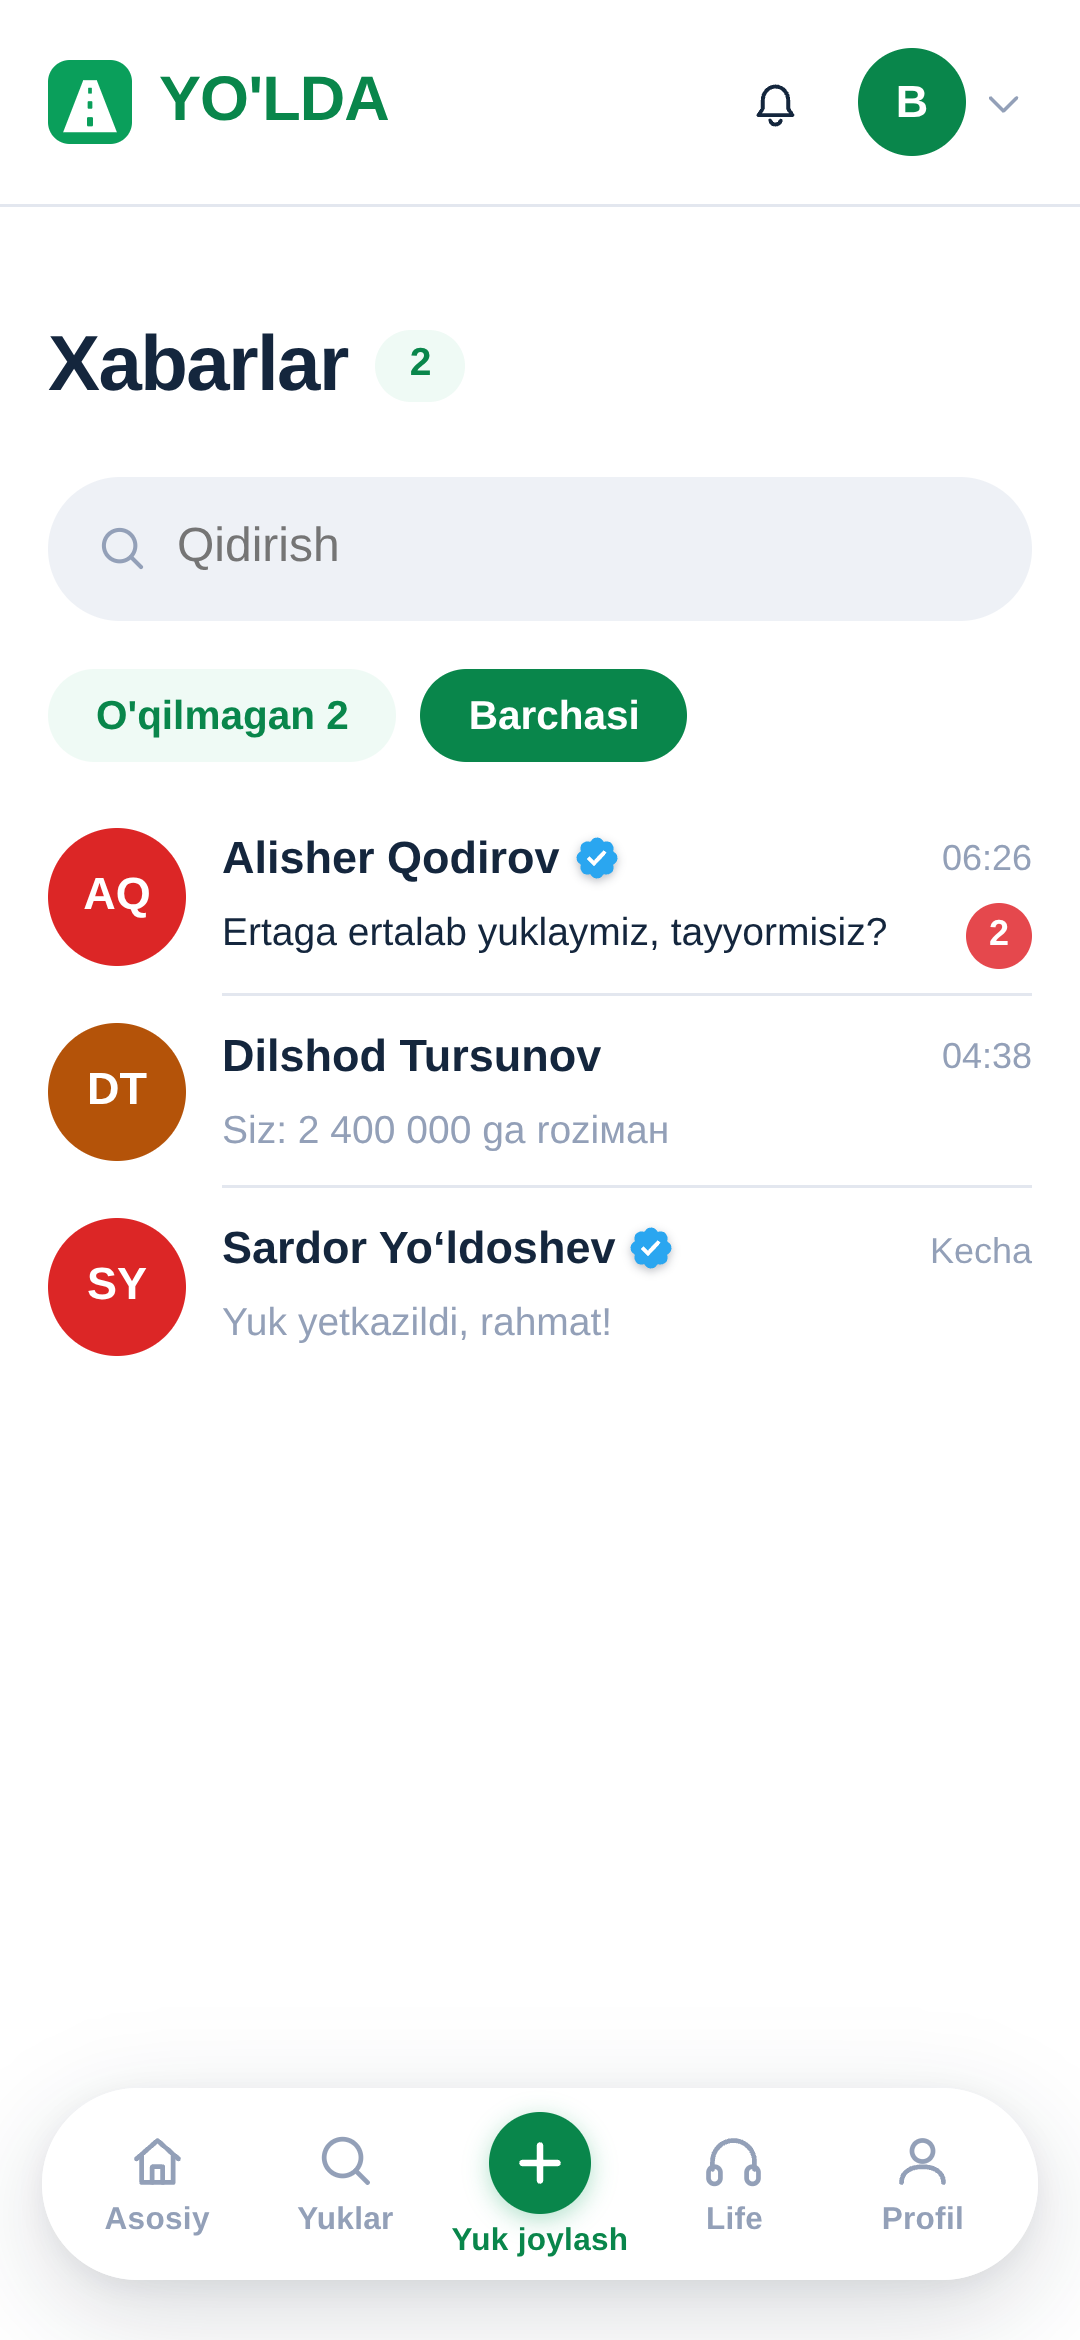
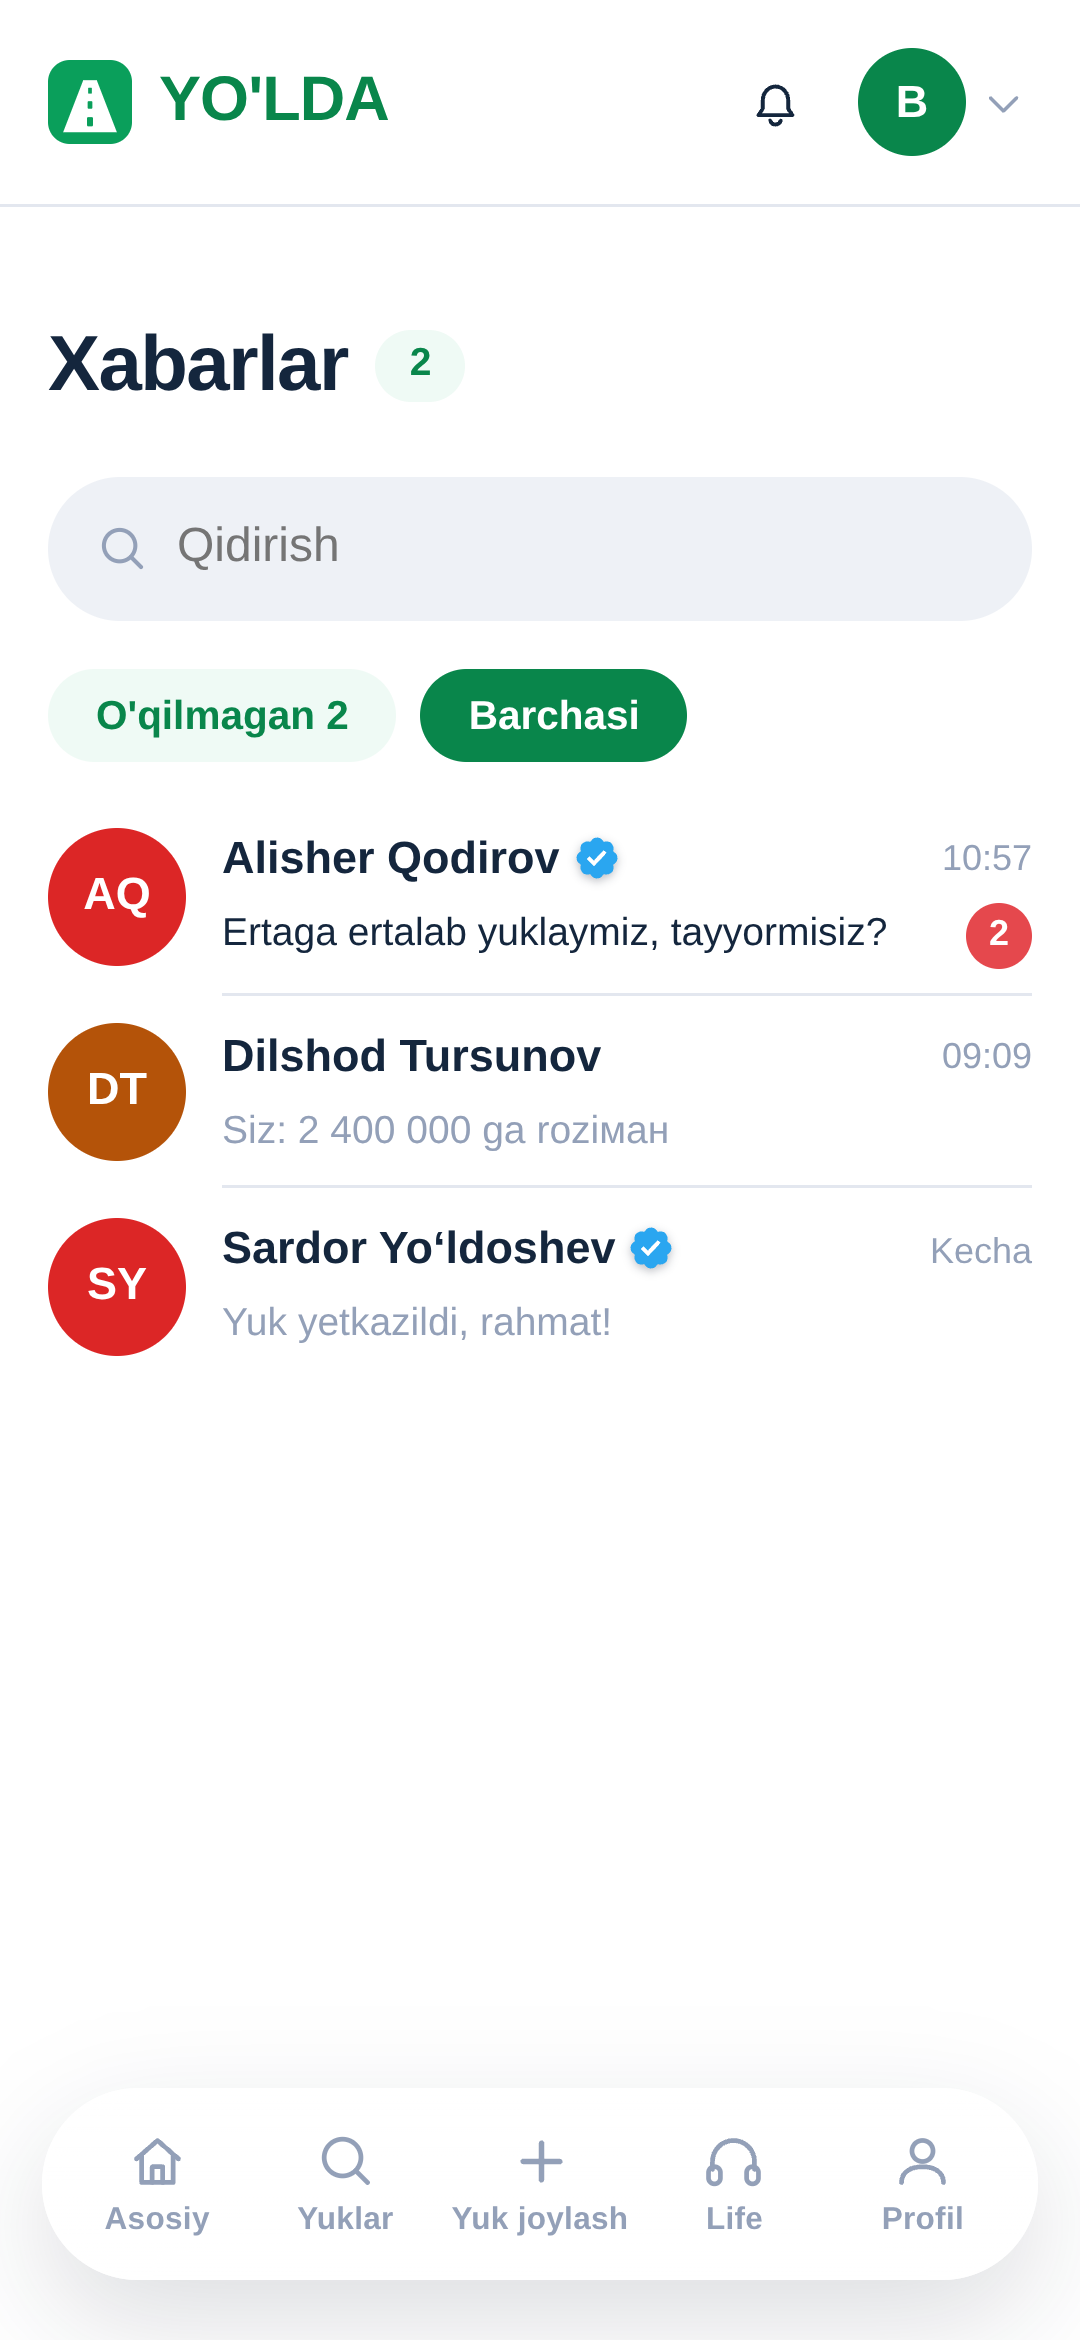
Apple uslubidagi material va bir xil pastki panel
MATERIAL

Oldingi tuzatishda `saturate` ni pasaytirib, panelni quyuqroq
qilgan edim — dog' ketdi, lekin bu Apple'ning yo'li emas. Apple
`saturate` ni pasaytirmaydi, u YORQINLIKNI bosadi: ostidagi
tasvirning yorqinligi materialning o'z darajasiga tortiladi va
shuning uchun to'yinganlik baland bo'lsa ham hech narsa "yonib"
ketmaydi.

Endi material to'rt qatlamdan iborat:

  1. keng xiralashtirish (32px);
  2. saturate 180% — rang jonli;
  3. brightness 0.70 (tunda) / 1.06 (kunduzi) — yorqinlikni
     materialning darajasiga tortadi. Aynan shu narsa yetishmasdi;
  4. qirradagi aks: tepada ingichka yorug' chiziq, ichkarida
     yumshoq nur, 0.5px chegara. Shishaning QALINLIGI shundan
     seziladi — busiz panel shunchaki xira to'rtburchak.

Beshinchi qatlam — qirrada nur sinishi — CSS da yo'q va
qo'shilmadi. `backdrop-filter` tasvirni surib yoki egib bo'lmaydi;
buning uchun ortdagi sahifani har kadrda WebGL ga ko'chirish
kerak, bu esa arzon telefonda silliqlikni o'ldiradi.

Hamma qiymat o'zgaruvchilarga chiqarildi, ya'ni mavzu bilan birga
o'zgaradi. Tungi mavzudagi alohida soya qoidasi olib tashlandi: u
`box-shadow` ni butunlay almashtirib, qirradagi ichki nurni ham
o'chirib yuborardi.

PASTKI PANEL

"Yuk joylash" endi qolgan kataklardan farq qilmaydi. U yashil
doira ichidagi oq "+" edi: ko'z o'shanga qadalib, qolgan to'rtta
bo'lim ikkinchi darajali bo'lib ko'rinardi va shisha panelning
butunligi buzilardi. Endi oddiy belgi — bir xil rang, bir xil
[…]

Changed region(s): [[0.4278, 0.9047, 0.5806, 0.9671], [0.9167, 0.3432, 0.9472, 0.3744], [0.8861, 0.4368, 0.9167, 0.4679]]

diff --git a/index.html b/index.html
@@ -192,9 +192,19 @@
        (masalan "Reyting va sharhlar") kelib qolsa, panelning uchdan
        biri to'q sariq dog'ga aylanardi. Shisha ostidagi narsani
        ESLATIShi kerak, uni ko'rsatishi emas. */
-    --nav-glass:rgba(255,255,255,0.72);
+    --nav-glass:rgba(255,255,255,0.58);
+    /* Yorqin fonda yorqinlik bosilmaydi, biroz ko'tariladi: oq
+       material ostidagi ranglar undan quyuqroq bo'ladi. */
+    --nav-filter:saturate(180%) brightness(1.06) contrast(1.04) blur(32px);
+    --nav-sheen-top:rgba(255,255,255,0.55);
+    --nav-sheen-mid:rgba(255,255,255,0.18);
+    --nav-sheen-bot:rgba(255,255,255,0.10);
+    --nav-edge-top:rgba(255,255,255,0.90);
+    --nav-edge-bot:rgba(255,255,255,0.35);
+    --nav-inner-glow:rgba(255,255,255,0.25);
+    --nav-drop:0 14px 38px rgba(15,23,42,0.14);
     --nav-solid:rgba(255,255,255,0.92);
-    --nav-brd:rgba(255,255,255,0.5);
+    --nav-brd:rgba(255,255,255,0.75);
     --nav-lens:rgba(255,255,255,0.55);
     --nav-lens-hot:rgba(255,255,255,0.82);
     --nav-lens-brd:rgba(255,255,255,0.85);
@@ -271,9 +281,20 @@
     --chrome-glass:rgba(8,8,8,0.62);
     --chrome-solid:rgba(8,8,8,0.96);
     --chrome-brd:rgba(255,255,255,0.10);
-    --nav-glass:rgba(14,14,14,0.76);
+    --nav-glass:rgba(18,18,20,0.62);
+    /* Tunda yorqinlik BOSILADI (0.70). Aynan shu narsa ostidagi
+       to'q sariq belgini materialning darajasiga tortadi va
+       `saturate` 180% bo'lsa ham dog' hosil bo'lmaydi. */
+    --nav-filter:saturate(180%) brightness(0.70) contrast(1.06) blur(32px);
+    --nav-sheen-top:rgba(255,255,255,0.16);
+    --nav-sheen-mid:rgba(255,255,255,0.04);
+    --nav-sheen-bot:rgba(255,255,255,0.02);
+    --nav-edge-top:rgba(255,255,255,0.24);
+    --nav-edge-bot:rgba(255,255,255,0.06);
+    --nav-inner-glow:rgba(255,255,255,0.035);
+    --nav-drop:0 14px 38px rgba(0,0,0,0.5);
     --nav-solid:rgba(10,10,10,0.94);
-    --nav-brd:rgba(255,255,255,0.12);
+    --nav-brd:rgba(255,255,255,0.16);
     --nav-lens:rgba(255,255,255,0.14);
     --nav-lens-hot:rgba(255,255,255,0.24);
     --nav-lens-brd:rgba(255,255,255,0.28);
@@ -306,9 +327,13 @@
   :root[data-theme="dark"] .chat-bubble.mine,
   :root[data-theme="dark"] .hiw-q,
   :root[data-theme="dark"] .avatar-edit-preview,
+  /* "Yuk joylash" belgisi bu ro'yxatdan chiqdi: u ilgari yashil
+     doira ichida turardi va unga to'q rang kerak edi. Endi doira
+     yo'q — belgi panel foni ustida, ya'ni qolganlari bilan bir xil
+     rangda bo'lishi kerak. To'q yashil qoldirilsa, tungi mavzuda
+     u deyarli ko'rinmay qolardi. */
   :root[data-theme="dark"] .avatar-edit-btn,
-  :root[data-theme="dark"] .seller-card .sc-avatar,
-  :root[data-theme="dark"] .bn-item--primary .bn-fab .ic-svg{color:#052E1A;}
+  :root[data-theme="dark"] .seller-card .sc-avatar{color:#052E1A;}
 
   *{box-sizing:border-box;}
   html{scroll-behavior:smooth;-webkit-text-size-adjust:100%;}
@@ -703,18 +728,41 @@
     bottom:calc(20px + env(safe-area-inset-bottom, 0px));
     display:flex;align-items:center;
     border-radius:999px;
-    background:var(--nav-glass);
-    /* `saturate` ataylab past. 200% da ostidagi rangli belgi ikki
-       barobar to'yinib, panelni bo'yab yuborardi: to'q sariq kvadrat
-       ustidan o'tganda panelning chap uchdan biri jigarrang dog'
-       bo'lib qolardi. 115% — rang biroz jonli, lekin kuchaymaydi.
-       Xiralashtirish esa oshirildi: keng blur shaklning qirrasini
-       yo'qotadi, ya'ni ostidagi kvadratning cheti panel ichida
-       chiziq bo'lib ko'rinmaydi. */
-    -webkit-backdrop-filter:saturate(115%) blur(40px);
-    backdrop-filter:saturate(115%) blur(40px);
-    border:1px solid var(--nav-brd);
-    box-shadow:0 10px 34px rgba(15,23,42,0.16), 0 2px 8px rgba(15,23,42,0.06);
+    /* ---------- Material: to'rt qatlam ----------
+       Apple'ning shishasi bitta `backdrop-filter` emas. Unda beshta
+       qatlam bor va ulardan to'rttasini CSS ham qila oladi:
+
+         1. keng xiralashtirish;
+         2. to'yinganlikni oshirish — rang jonli bo'lsin;
+         3. YORQINLIKNI BOSISH — eng muhimi va aynan shu yetishmasdi.
+            Faqat `saturate` qo'yilsa, ostidagi yorqin belgi ikki
+            barobar to'yinib panelni bo'yab yuboradi (biz shu xatoga
+            tushgan edik). Apple esa ostidagi tasvirning yorqinligini
+            materialning o'z darajasiga tortadi: shuning uchun unda
+            `saturate` baland bo'lsa ham hech narsa "yonib" ketmaydi;
+         4. qirradagi aks — tepada ingichka yorug' chiziq, ichkarida
+            yumshoq nur. Shishaning QALINLIGI aynan shundan seziladi;
+            busiz panel shunchaki xira to'rtburchak bo'lib qoladi.
+
+       Beshinchisi — qirrada nur sinishi (refraction) — CSS da yo'q:
+       `backdrop-filter` tasvirni surib yoki egib bo'lmaydi. Buning
+       uchun ortdagi sahifani har kadrda WebGL ga ko'chirish kerak,
+       bu esa arzon telefonda silliqlikni o'ldiradi. */
+    background:
+      linear-gradient(180deg,
+        var(--nav-sheen-top) 0%,
+        var(--nav-sheen-mid) 16%,
+        rgba(255,255,255,0) 42%,
+        var(--nav-sheen-bot) 100%),
+      var(--nav-glass);
+    -webkit-backdrop-filter:var(--nav-filter);
+    backdrop-filter:var(--nav-filter);
+    border:0.5px solid var(--nav-brd);
+    box-shadow:
+      inset 0 1px 0 var(--nav-edge-top),
+      inset 0 -1px 0 var(--nav-edge-bot),
+      inset 0 0 22px var(--nav-inner-glow),
+      var(--nav-drop);
     padding:0 6px;
     /* Sudrash paytida sahifa yonlamasiga surilib ketmasin. */
     touch-action:pan-y;
@@ -744,8 +792,9 @@
   }
   .nav-pick-item .ic-svg{font-size:19px;color:var(--route);flex:none;}
   .nav-pick-item:hover,.nav-pick-item:active{background:var(--tint);}
-  /* Qora fonda oq soya ko'rinmaydi — tunda soya quyuqroq bo'ladi. */
-  :root[data-theme="dark"] .bottom-nav{box-shadow:0 10px 34px rgba(0,0,0,0.5);}
+  /* Soya endi `--nav-drop` da, mavzu bilan birga o'zgaradi. Bu yerda
+     alohida qoida qolsa, u panelning qirradagi ichki nurini ham
+     o'chirib yuborardi: `box-shadow` butunlay almashadi, qo'shilmaydi. */
 
   /* Tanlangan bo'lim ostidagi tomchi — shisha linza. Bitta element
      bo'lib, joydan joyga sirg'aladi; barmoq bilan sudrab ham
@@ -934,31 +983,40 @@
   }
   .bn-item.active,.bn-ghost.active{color:var(--route);}
   /* Tanlanganda ikonka bir sakrab qo'yadi. */
-  .bn-item.active:not(.bn-item--primary) .ic-svg,
-  .bn-ghost.active:not(.bn-item--primary) .ic-svg{transform:translateY(-2px) scale(1.12);}
+  .bn-item.active .ic-svg,
+  .bn-ghost.active .ic-svg{transform:translateY(-2px) scale(1.12);}
   .bn-item:hover{color:var(--route-dark);}
   .bn-item:active .ic-svg{transform:scale(0.9);}
   :root[data-reduce-motion="1"] .bn-item .ic-svg{transition:none;transform:none;}
 
-  /* "Yuk joylash" — ilovaning asosiy amali. Ilgari u paneldan
-     yuqoriga bo'rtib chiqib turardi; endi panel ichida, qolgan
-     bo'limlar bilan bir qatorda. Ajralib turishi uchun bo'rtish
-     emas, rang yetarli. */
-  .bn-item--primary{color:var(--route);}
+  /* "Yuk joylash" — qolgan bo'limlardan farq qilmaydi.
+
+     Ilgari u yashil doira ichidagi oq "+" edi: paneldan ajralib,
+     o'zi alohida tugmaga o'xshab turardi. Lekin bu ham bo'lim —
+     qolgan to'rttasi bilan bir qatorda, bir xil vazifada. Yonidagi
+     kataklar kulrang belgidan iborat bo'lsa, bittasining yashil
+     doira bo'lishi shisha panelning butunligini buzadi: ko'z
+     o'shanga qadaladi va qolganlari "ikkinchi darajali" bo'lib
+     ko'rinadi.
+
+     Endi u ham shunchaki belgi — bir xil rang, bir xil o'lcham.
+     Tanlanganda qolganlari kabi yashil bo'ladi va ostida shisha
+     tabletka paydo bo'ladi: ajralib turishi faqat tanlanganda,
+     hamma qatori. */
   .bn-item--primary .bn-fab{
     display:flex;align-items:center;justify-content:center;
-    width:34px;height:34px;border-radius:50%;margin-top:0;flex:0 0 auto;
-    background:var(--route);
-    box-shadow:0 2px 8px rgba(10,159,91,0.32);
-    transition:transform 0.42s cubic-bezier(0.34,1.56,0.64,1), box-shadow 0.3s var(--ease);
+    flex:0 0 auto;background:none;box-shadow:none;border-radius:0;
   }
-  :root[data-theme="dark"] .bn-item--primary .bn-fab{box-shadow:0 2px 8px rgba(10,159,91,0.45);}
-  .bn-item--primary .bn-fab .ic-svg{font-size:20px;color:#fff;stroke-width:2.6;transition:transform 0.42s cubic-bezier(0.34,1.56,0.64,1);}
-  .bn-item--primary:hover .bn-fab{transform:translateY(-2px);}
-  .bn-item--primary.active .bn-fab{transform:scale(1.06);}
-  .bn-item--primary:active .bn-fab{transform:scale(0.94);}
-  .bn-item--primary.active{color:var(--route);}
-  :root[data-reduce-motion="1"] .bn-item--primary .bn-fab{transition:none;transform:none;}
+  /* Belgi qolganlari bilan bir xil o'lchamda. `stroke-width` biroz
+     ingichkaroq: "+" boshqa belgilarga qaraganda oddiy shakl va
+     bir xil qalinlikda u yo'g'onroq ko'rinardi. */
+  .bn-item--primary .bn-fab .ic-svg{
+    font-size:21px;stroke-width:2.1;color:inherit;
+    transition:transform 0.5s cubic-bezier(0.34,1.42,0.5,1);
+  }
+  /* Tanlanganda sakrashi, bosilganda siqilishi va harakatni
+     kamaytirish qoidasi — hammasi `.bn-item` ning umumiy
+     qoidalaridan keladi, chunki bu belgi ham ularning ichida. */
 
   /* ---------- ODDIY SHISHA (lupasiz) ----------
      Linza (lupa) olib tashlandi: tanlangan bo'lim ostida endi shunchaki
@@ -17039,7 +17097,10 @@
     if(!blob || !nav) return;
     // ":scope >" muhim: linza ichidagi kattalashtirilgan nusxada ham
     // xuddi shunday tugmalar bor va ular boshqa joyda turadi.
-    var active = nav.querySelector(".bn-item.active:not(.bn-item--primary)");
+    /* "Yuk joylash" ham shu ro'yxatda: ilgari u yashil doira edi va
+       ostiga tabletka qo'yilsa ikkitasi ustma-ust tushardi. Endi u
+       oddiy belgi, ya'ni tanlanganda u ham tabletkani oladi. */
+    var active = nav.querySelector(".bn-item.active");
     if(!active){ blob.style.opacity = "0"; return; }
     var navBox = nav.getBoundingClientRect();
     var box = active.getBoundingClientRect();
@@ -17814,7 +17875,10 @@
   document.addEventListener("pointerdown", function(ev){
     var el = ev.target && ev.target.closest ? ev.target.closest(HAPTIC_TARGETS) : null;
     if(!el || el.disabled) return;
-    haptic(el.classList.contains("bn-item--primary") ? "medium" : "light");
+    /* Pastki paneldagi hamma katak bir xil: ilgari "Yuk joylash"
+       kuchliroq titrardi, chunki u alohida tugma edi. Endi u ham
+       oddiy bo'lim — titrash ham qolganlari bilan bir xil. */
+    haptic("light");
   }, { passive: true });
 
   /* Qayerdan / qayerga tanlanganda. Bu <select>, ya'ni tanlov bosilganda
